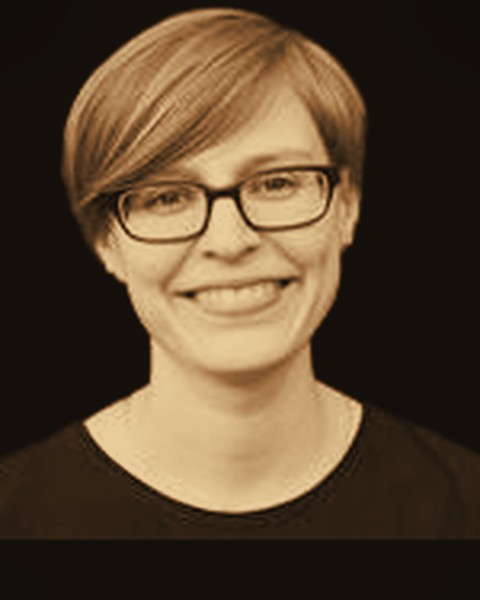
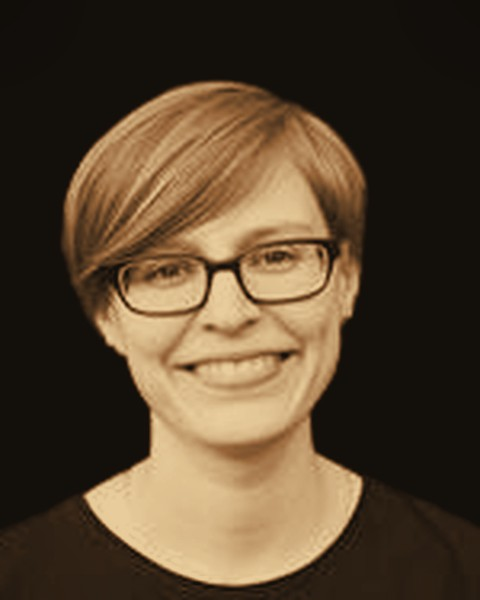
fix: fixation and readjustment

diff --git a/lib/data.ts b/lib/data.ts
@@ -6,7 +6,7 @@ export interface Person {
   role: string;
   affiliation: string;
   link?: string;
-  photo?: string; // relative path, e.g. "images/people/stanley-tong.jpg"
+  photo?: string; // relative path, e.g. "images/people/stanley-tong.jpg?v=4"
 }
 
 export interface Group {
@@ -22,17 +22,17 @@ export const GROUPS: Group[] = [
     title: "International Advisory & Review Panel",
     code: "A",
     people: [
-      { name: "Stanley Tong", role: "Internationally Acclaimed Film Director and Producer", affiliation: "", link: "https://en.wikipedia.org/wiki/Stanley_Tong", photo: "images/people/stanley-tong.jpg" },
-      { name: "Wu Yan", role: "Science-Fiction Writer and Professor", affiliation: "Southern University of Science and Technology", link: "https://www.sustech.edu.cn/en/faculties/wuyan-2.html", photo: "images/people/wu-yan.jpg" },
-      { name: "Zhigang Wang", role: "Professor", affiliation: "Tsinghua University", link: "https://www.enad.tsinghua.edu.cn/info/1229/1363.htm", photo: "images/people/zhigang-wang.jpg" },
-      { name: "Shengyi Ye", role: "Professor", affiliation: "Southern University of Science and Technology", link: "https://www.sustech.edu.cn/en/faculties/yeshengyi.html", photo: "images/people/shengyi-ye.jpg" },
-      { name: "Zhonghua Yao", role: "Associate Professor", affiliation: "The University of Hong Kong", link: "https://www.earthsciences.hku.hk/people/academic-staff/dr-yao-zhonghua", photo: "images/people/zhonghua-yao.jpg" },
-      { name: "Baoyang Chen", role: "Lecturer", affiliation: "Central Academy of Fine Arts", link: "https://baoyangchen.com/", photo: "images/people/baoyang-chen.jpg" },
-      { name: "Qiufan Chen", role: "Science-Fiction Writer and Assistant Professor", affiliation: "Hong Kong Metropolitan University", link: "https://www.hkmu.edu.hk/hlt/stanleychen/", photo: "images/people/qiufan-chen.jpg" },
-      { name: "Xian Xu", role: "Assistant Professor", affiliation: "Lingnan University", link: "https://www.ln.edu.hk/daci/our-people/faculty/prof-xian-xu", photo: "images/people/xian-xu.jpg" },
+      { name: "Stanley Tong", role: "Internationally Acclaimed Film Director and Producer", affiliation: "", link: "https://en.wikipedia.org/wiki/Stanley_Tong", photo: "images/people/stanley-tong.jpg?v=4" },
+      { name: "Wu Yan", role: "Science-Fiction Writer and Professor", affiliation: "Southern University of Science and Technology", link: "https://www.sustech.edu.cn/en/faculties/wuyan-2.html", photo: "images/people/wu-yan.jpg?v=4" },
+      { name: "Zhigang Wang", role: "Professor", affiliation: "Tsinghua University", link: "https://www.enad.tsinghua.edu.cn/info/1229/1363.htm", photo: "images/people/zhigang-wang.jpg?v=4" },
+      { name: "Shengyi Ye", role: "Professor", affiliation: "Southern University of Science and Technology", link: "https://www.sustech.edu.cn/en/faculties/yeshengyi.html", photo: "images/people/shengyi-ye.jpg?v=4" },
+      { name: "Zhonghua Yao", role: "Associate Professor", affiliation: "The University of Hong Kong", link: "https://www.earthsciences.hku.hk/people/academic-staff/dr-yao-zhonghua", photo: "images/people/zhonghua-yao.jpg?v=4" },
+      { name: "Baoyang Chen", role: "Lecturer", affiliation: "Central Academy of Fine Arts", link: "https://baoyangchen.com/", photo: "images/people/baoyang-chen.jpg?v=4" },
+      { name: "Qiufan Chen", role: "Science-Fiction Writer and Assistant Professor", affiliation: "Hong Kong Metropolitan University", link: "https://www.hkmu.edu.hk/hlt/stanleychen/", photo: "images/people/qiufan-chen.jpg?v=4" },
+      { name: "Xian Xu", role: "Assistant Professor", affiliation: "Lingnan University", link: "https://www.ln.edu.hk/daci/our-people/faculty/prof-xian-xu", photo: "images/people/xian-xu.jpg?v=4" },
       { name: "Yansong Chen", role: "Assistant Professor", affiliation: "Beijing Normal University" },
-      { name: "Shangchun Teng", role: "Research Assistant Professor", affiliation: "The University of Hong Kong", photo: "images/people/shangchun-teng.jpg" },
-      { name: "Xiangsong Wang", role: "Research Assistant Professor", affiliation: "The University of Hong Kong", photo: "images/people/xiangsong-wang.jpg" },
+      { name: "Shangchun Teng", role: "Research Assistant Professor", affiliation: "The University of Hong Kong", photo: "images/people/shangchun-teng.jpg?v=4" },
+      { name: "Xiangsong Wang", role: "Research Assistant Professor", affiliation: "The University of Hong Kong", photo: "images/people/xiangsong-wang.jpg?v=4" },
     ],
   },
   {
@@ -40,10 +40,10 @@ export const GROUPS: Group[] = [
     title: "Research Advisory Committee",
     code: "B",
     people: [
-      { name: "Huamin Qu", role: "Dean and Chair Professor", affiliation: "The Hong Kong University of Science and Technology", link: "https://cse.hkust.edu.hk/admin/people/faculty/profile/huamin", photo: "images/people/huamin-qu.jpg" },
-      { name: "Xiaojuan Ma", role: "Associate Professor", affiliation: "The Hong Kong University of Science and Technology", link: "https://cse.hkust.edu.hk/admin/people/faculty/profile/mxj", photo: "images/people/xiaojuan-ma.jpg" },
-      { name: "Sebastian Deterding", role: "Professor", affiliation: "Imperial College London", link: "https://profiles.imperial.ac.uk/s.deterding", photo: "images/people/sebastian-deterding.jpg" },
-      { name: "Rebecca Fiebrink", role: "Professor", affiliation: "University of the Arts London", link: "https://www.arts.ac.uk/creative-computing-institute/people/rebecca-fiebrink", photo: "images/people/rebecca-fiebrink.jpg" },
+      { name: "Huamin Qu", role: "Dean and Chair Professor", affiliation: "The Hong Kong University of Science and Technology", link: "https://cse.hkust.edu.hk/admin/people/faculty/profile/huamin", photo: "images/people/huamin-qu.jpg?v=4" },
+      { name: "Xiaojuan Ma", role: "Associate Professor", affiliation: "The Hong Kong University of Science and Technology", link: "https://cse.hkust.edu.hk/admin/people/faculty/profile/mxj", photo: "images/people/xiaojuan-ma.jpg?v=4" },
+      { name: "Sebastian Deterding", role: "Professor", affiliation: "Imperial College London", link: "https://profiles.imperial.ac.uk/s.deterding", photo: "images/people/sebastian-deterding.jpg?v=4" },
+      { name: "Rebecca Fiebrink", role: "Professor", affiliation: "University of the Arts London", link: "https://www.arts.ac.uk/creative-computing-institute/people/rebecca-fiebrink", photo: "images/people/rebecca-fiebrink.jpg?v=4" },
       { name: "Yulong Bian", role: "Visiting Professor", affiliation: "Nanyang Technological University" },
     ],
   },
@@ -52,11 +52,11 @@ export const GROUPS: Group[] = [
     title: "Research Team",
     code: "C",
     people: [
-      { name: "Yuying Tang", role: "Team Leader · PhD Candidate", affiliation: "The Hong Kong University of Science and Technology", link: "https://yuyingtang1999.github.io/", photo: "images/people/yuying-tang.jpg" },
+      { name: "Yuying Tang", role: "Team Leader · PhD Candidate", affiliation: "The Hong Kong University of Science and Technology", link: "https://yuyingtang1999.github.io/", photo: "images/people/yuying-tang.jpg?v=4" },
       { name: "Qingyue Cai", role: "Collaborator · Student", affiliation: "Renmin University of China" },
       { name: "Haotian Li", role: "Collaborator · Researcher", affiliation: "Microsoft Research Asia", link: "https://www.microsoft.com/en-us/research/people/haotianli/" },
-      { name: "Jiaxiong Hu", role: "Collaborator · Postdoctoral Fellow", affiliation: "The Hong Kong University of Science and Technology", link: "https://jiaxiong.notion.site/Jiaxiong-Hu-fdd7394b52f74ae78ab438aa93164c3d", photo: "images/people/jiaxiong-hu.jpg" },
-      { name: "Baiqiao Zhang", role: "Collaborator · PhD Student", affiliation: "The Hong Kong University of Science and Technology", link: "https://baiqiaozhang.cc/", photo: "images/people/baiqiao-zhang.jpg" },
+      { name: "Jiaxiong Hu", role: "Collaborator · Postdoctoral Fellow", affiliation: "The Hong Kong University of Science and Technology", link: "https://jiaxiong.notion.site/Jiaxiong-Hu-fdd7394b52f74ae78ab438aa93164c3d" },
+      { name: "Baiqiao Zhang", role: "Collaborator · PhD Student", affiliation: "The Hong Kong University of Science and Technology", link: "https://baiqiaozhang.cc/", photo: "images/people/baiqiao-zhang.jpg?v=4" },
     ],
   },
 ];

diff --git a/components/Background.tsx b/components/Background.tsx
@@ -30,14 +30,14 @@ export default function Background() {
       cv.width = window.innerWidth;
       cv.height = window.innerHeight;
       stars = [];
-      const n = Math.min(300, Math.round((cv.width * cv.height) / 7000));
+      const n = Math.min(360, Math.round((cv.width * cv.height) / 5500));
       for (let i = 0; i < n; i++) {
         const depth = Math.random(); // 0 far … 1 near
         stars.push({
           x: Math.random() * cv.width,
           y: Math.random() * cv.height,
-          r: 0.3 + depth * 1.0,             // small
-          a: 0.25 + depth * 0.55,
+          r: 0.5 + depth * 1.4,             // small but visible
+          a: 0.45 + depth * 0.55,
           par: 0.12 + depth * 0.55,         // scroll parallax — near stars stream faster
           tw: 1.2 + Math.random() * 2.4,    // twinkle speed
           ph: Math.random() * 6.28,
@@ -49,21 +49,44 @@ export default function Background() {
     build();
     window.addEventListener("resize", build);
 
+    let lastScroll = scroll.y;
+    let speed = 0; // smoothed scroll velocity (signed)
     const draw = () => {
       const H = cv.height;
       ctx.clearRect(0, 0, cv.width, H);
       const now = performance.now() / 1000;
       const drift = reduce ? 0 : now * 6; // gentle autonomous upward drift
+      const dv = scroll.y - lastScroll;
+      lastScroll = scroll.y;
+      speed += (dv - speed) * 0.4; // fast response to scroll
+      const aspeed = Math.abs(speed);
+      const dir = speed >= 0 ? 1 : -1; // scroll down → stars move up → trail points down
       for (const s of stars) {
-        // scroll down → subtract → star moves up; wrap
         let sy = s.y - scroll.y * s.par - drift;
         sy = ((sy % H) + H) % H;
         const twinkle = 0.45 + 0.55 * (0.5 + 0.5 * Math.sin(now * s.tw + s.ph));
-        const flick = Math.sin(now * s.fw + s.fp) > 0.9 ? 0.25 : 1; // occasional sharp flicker
-        ctx.beginPath();
-        ctx.arc(s.x, sy, s.r, 0, 6.283);
-        ctx.fillStyle = `rgba(238,232,218,${s.a * twinkle * flick})`;
-        ctx.fill();
+        const flick = Math.sin(now * s.fw + s.fp) > 0.9 ? 0.25 : 1;
+        const alpha = s.a * twinkle * flick;
+        // every star streaks into a vertical line; length scales with scroll speed + depth
+        const streak = reduce ? 0 : Math.min(260, aspeed * (0.55 + s.par) * 3.4);
+        if (streak > 0.8) {
+          const y2 = sy + streak * dir;
+          const head = Math.min(1, s.a * 1.35);
+          const grad = ctx.createLinearGradient(s.x, sy, s.x, y2);
+          grad.addColorStop(0, `rgba(240,235,222,${head})`);
+          grad.addColorStop(1, "rgba(240,235,222,0)");
+          ctx.strokeStyle = grad;
+          ctx.lineWidth = Math.max(0.7, s.r * 1.25);
+          ctx.beginPath();
+          ctx.moveTo(s.x, sy);
+          ctx.lineTo(s.x, y2);
+          ctx.stroke();
+        } else {
+          ctx.beginPath();
+          ctx.arc(s.x, sy, s.r, 0, 6.283);
+          ctx.fillStyle = `rgba(238,232,218,${alpha})`;
+          ctx.fill();
+        }
       }
       raf = requestAnimationFrame(draw);
     };

diff --git a/public/stars-demo.html b/public/stars-demo.html
@@ -1,0 +1,48 @@
+<!doctype html>
+<html lang="en">
+<head>
+<meta charset="utf-8" />
+<meta name="viewport" content="width=device-width, initial-scale=1" />
+<title>Star warp demo</title>
+<style>
+  html,body{margin:0;background:#0b0a08;overflow-x:hidden}
+  canvas{position:fixed;inset:0;width:100%;height:100%;z-index:0}
+  .spacer{height:500vh}
+  .hint{position:fixed;top:20px;left:0;right:0;z-index:2;text-align:center;color:#d6a45a;
+    font-family:ui-monospace,monospace;font-size:13px;letter-spacing:.18em;text-transform:uppercase}
+</style>
+</head>
+<body>
+<canvas id="c"></canvas>
+<div class="hint">Scroll down — the faster you scroll, the longer the star trails</div>
+<div class="spacer"></div>
+<script>
+const cv=document.getElementById("c"),ctx=cv.getContext("2d");
+const scroll={y:window.scrollY};
+addEventListener("scroll",()=>{scroll.y=window.scrollY;},{passive:true});
+let stars=[];
+function build(){cv.width=innerWidth;cv.height=innerHeight;stars=[];
+  const n=Math.min(360,Math.round(cv.width*cv.height/5500));
+  for(let i=0;i<n;i++){const d=Math.random();
+    stars.push({x:Math.random()*cv.width,y:Math.random()*cv.height,r:.5+d*1.4,a:.45+d*.55,
+      par:.12+d*.55,tw:1.2+Math.random()*2.4,ph:Math.random()*6.28,fw:3+Math.random()*5,fp:Math.random()*6.28});}}
+build();addEventListener("resize",build);
+let lastScroll=scroll.y,speed=0;
+(function draw(){const H=cv.height;ctx.clearRect(0,0,cv.width,H);
+  const now=performance.now()/1000;const drift=now*6;
+  const dv=scroll.y-lastScroll;lastScroll=scroll.y;speed+=(dv-speed)*0.4;
+  const aspeed=Math.abs(speed),dir=speed>=0?1:-1;
+  for(const s of stars){let sy=s.y-scroll.y*s.par-drift;sy=((sy%H)+H)%H;
+    const tw=.45+.55*(.5+.5*Math.sin(now*s.tw+s.ph));
+    const fl=Math.sin(now*s.fw+s.fp)>0.9?0.25:1;const alpha=s.a*tw*fl;
+    const streak=Math.min(260,aspeed*(0.55+s.par)*3.4);
+    if(streak>0.8){const y2=sy+streak*dir;const head=Math.min(1,s.a*1.35);
+      const g=ctx.createLinearGradient(s.x,sy,s.x,y2);
+      g.addColorStop(0,`rgba(240,235,222,${head})`);g.addColorStop(1,"rgba(240,235,222,0)");
+      ctx.strokeStyle=g;ctx.lineWidth=Math.max(.7,s.r*1.25);
+      ctx.beginPath();ctx.moveTo(s.x,sy);ctx.lineTo(s.x,y2);ctx.stroke();
+    }else{ctx.beginPath();ctx.arc(s.x,sy,s.r,0,6.283);ctx.fillStyle=`rgba(240,235,222,${alpha})`;ctx.fill();}}
+  requestAnimationFrame(draw);})();
+</script>
+</body>
+</html>

diff --git a/components/People.tsx b/components/People.tsx
@@ -7,6 +7,14 @@ function initials(name: string) {
   return name.split(" ").map((w) => w[0]).slice(0, 2).join("").toUpperCase();
 }
 
+function photoStyle(name: string) {
+  if (name === "Sebastian Deterding" || name === "Zhonghua Yao") {
+    return { objectPosition: "center 30%" as const };
+  }
+
+  return undefined;
+}
+
 function Entry({ p, code }: { p: Person; code: string }) {
   const NameTag: React.ElementType = p.link ? "a" : "span";
   const nameProps = p.link
@@ -22,7 +30,7 @@ function Entry({ p, code }: { p: Person; code: string }) {
       <div className="relative h-[70px] w-[56px] shrink-0 overflow-hidden border border-[var(--line-2)]">
         {p.photo ? (
           // eslint-disable-next-line @next/next/no-img-element
-          <img src={p.photo} alt={p.name} className="h-full w-full object-cover" />
+          <img src={p.photo} alt={p.name} className="h-full w-full object-cover" style={photoStyle(p.name)} />
         ) : (
           <div className="flex h-full w-full items-center justify-center bg-[var(--panel)] font-mono text-[0.8rem] tracking-[0.06em] text-[var(--amber)]">
             {initials(p.name)}
